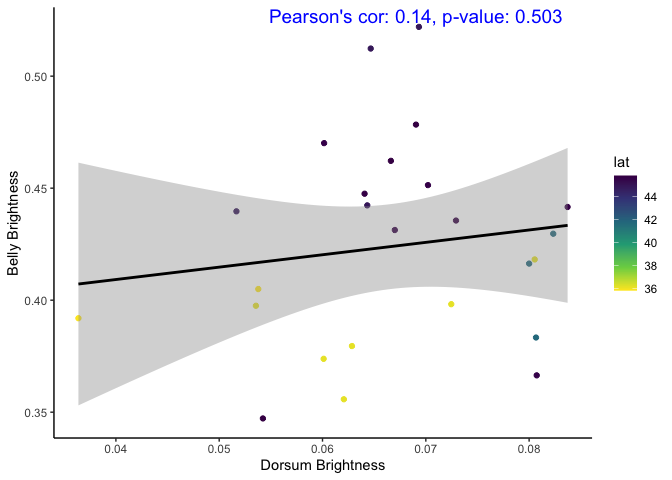
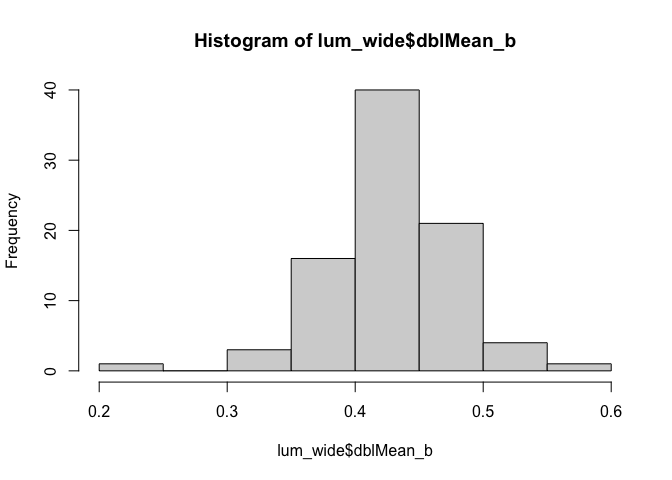
pushing new results

diff --git a/results/Preliminary_results_geographic_variation_plumage.md b/results/Preliminary_results_geographic_variation_plumage.md
@@ -15,14 +15,55 @@ Ore, MJ.
 
 ## Dorsum vs throat
 
-![](Preliminary_results_geographic_variation_plumage_files/figure-gfm/d%20vs%20t%20plot-1.png)<!-- -->
-\## Dorsum and belly
+![](Preliminary_results_geographic_variation_plumage_files/figure-gfm/d%20vs%20t%20plot-1.png)<!-- -->![](Preliminary_results_geographic_variation_plumage_files/figure-gfm/d%20vs%20t%20plot-2.png)<!-- -->
 
-![](Preliminary_results_geographic_variation_plumage_files/figure-gfm/d%20vs%20b%20plot%20-1.png)<!-- -->
+    ## 
+    ##  Shapiro-Wilk normality test
+    ## 
+    ## data:  lum_wide$dblMean_d
+    ## W = 0.98476, p-value = 0.4256
+
+    ## 
+    ##  Shapiro-Wilk normality test
+    ## 
+    ## data:  lum_wide$dblMean_t
+    ## W = 0.88969, p-value = 2.868e-06
+
+![](Preliminary_results_geographic_variation_plumage_files/figure-gfm/d%20vs%20t%20plot-3.png)<!-- -->
+
+## Dorsum vs wing covert
+
+![](Preliminary_results_geographic_variation_plumage_files/figure-gfm/d%20vs%20o%20plot-1.png)<!-- -->![](Preliminary_results_geographic_variation_plumage_files/figure-gfm/d%20vs%20o%20plot-2.png)<!-- -->
+
+    ## 
+    ##  Shapiro-Wilk normality test
+    ## 
+    ## data:  lum_wide$dblMean_d
+    ## W = 0.98476, p-value = 0.4256
+
+    ## 
+    ##  Shapiro-Wilk normality test
+    ## 
+    ## data:  lum_wide$dblMean_o
+    ## W = 0.95748, p-value = 0.007313
+
+![](Preliminary_results_geographic_variation_plumage_files/figure-gfm/d%20vs%20o%20plot-3.png)<!-- -->
+
+## Dorsum and belly
+
+![](Preliminary_results_geographic_variation_plumage_files/figure-gfm/d%20vs%20b%20plot%20-1.png)<!-- -->![](Preliminary_results_geographic_variation_plumage_files/figure-gfm/d%20vs%20b%20plot%20-2.png)<!-- -->
 
 ## Dorsum and wing spot - do darker birds have whiter wing spots?
 
 ![](Preliminary_results_geographic_variation_plumage_files/figure-gfm/d%20and%20ws%20plot-1.png)<!-- -->
+
+    ## 
+    ##  Shapiro-Wilk normality test
+    ## 
+    ## data:  lum_wide$dblMean_w
+    ## W = 0.9772, p-value = 0.1275
+
+![](Preliminary_results_geographic_variation_plumage_files/figure-gfm/d%20and%20ws%20plot-2.png)<!-- -->
 
 # Do darker birds have larger wing spots?
 
@@ -30,12 +71,12 @@ Ore, MJ.
     ##  Shapiro-Wilk normality test
     ## 
     ## data:  lum_wide$area_w
-    ## W = 0.95381, p-value = 0.2843
+    ## W = 0.9892, p-value = 0.6942
 
     ## 
     ##  Shapiro-Wilk normality test
     ## 
     ## data:  lum_wide$dblMean_d
-    ## W = 0.95111, p-value = 0.2656
+    ## W = 0.98476, p-value = 0.4256
 
 ![](Preliminary_results_geographic_variation_plumage_files/figure-gfm/dorsum%20vs%20wingspot%20area-1.png)<!-- -->